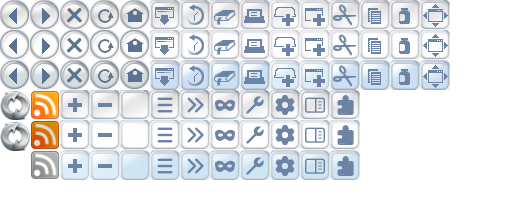
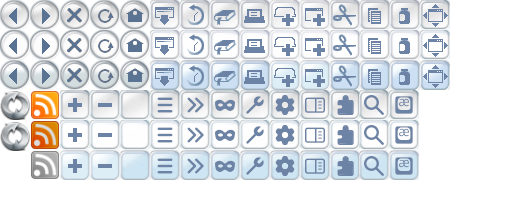
Find and char-encoding.

Changed region(s): [[0.6822, 0.45, 0.8372, 0.9]]

diff --git a/IE6/chrome/icons.css b/IE6/chrome/icons.css
@@ -94,26 +94,24 @@ toolbar:not(#TabsToolbar) .toolbarbutton-1[type="menu-button"] toolbarbutton :-m
 
 /*
 Removed pending icon creation:
-#find-button
 #open-file-button
 #save-page-button
-#characterencoding-button
 #PanelUI-menu-button
 */
 
 :-moz-any(#back-button,#forward-button,#home-button,#stop-button,#reload-button,#bookmarks-menu-button,#history-panelmenu,
 	#sync-button,#feed-button,#e10s-button,#PanelUI-menu-button, #privatebrowsing-button, #preferences-button,
-	#new-window-button,#new-tab-button,#print-button,#fullscreen-button, #add-ons-button,
-	#cut-button,#copy-button,#paste-button,#zoom-out-button,#zoom-in-button,
+	#new-window-button,#new-tab-button,#print-button,#fullscreen-button, #add-ons-button, #find-button,
+	#cut-button,#copy-button,#paste-button,#zoom-out-button,#zoom-in-button,#characterencoding-button,
 	/*#tabview-button,#email-link-button,#web-apps-button,#webide-button,*/#sidebar-button,#developer-button,#containers-panelmenu,
 	#library-button,#bookmarks-toolbar-placeholder,#nav-bar-overflow-button/*,#alltabs-button*/ ),
-#downloads-button:not([indicator="true"]),#panic-button:not([open]),
+#downloads-button:not([indicator="true"]),/*#panic-button:not([open]),*/
 #downloads-button .toolbarbutton-icon {
 	list-style-image: url("image/mm-toolbar.png") !important;
 }
 
 :-moz-any(#forward-button,#home-button,#stop-button,#reload-button,#bookmarks-menu-button,#history-panelmenu,
-				#privatebrowsing-button,/*#find-button,*/#print-button,#fullscreen-button,#developer-button,
+	#characterencoding-button,#privatebrowsing-button,#find-button,#print-button,#fullscreen-button,#developer-button,
 	#preferences-button,#cut-button,#copy-button,#paste-button,#zoom-out-button,#zoom-in-button,#add-ons-button,
 	/*#tabview-button,#email-link-button,#web-apps-button,#webide-button,*/#sidebar-button,#developer-button,#containers-panelmenu,
 	#library-button,#bookmarks-toolbar-placeholder,#nav-bar-overflow-button/*,#alltabs-button*/ ) .toolbarbutton-icon {

diff --git a/IE6/chrome/icon_size.css b/IE6/chrome/icon_size.css
@@ -234,6 +234,30 @@
 	-moz-image-region: rect(151px, 360px, 181px, 330px) !important;
 }
 
+#find-button {
+	-moz-image-region: rect(90px, 390px, 120px, 360px) !important;
+}
+
+#find-button:hover {
+	-moz-image-region: rect(120px, 390px, 150px, 360px) !important;
+}
+
+#find-button:active {
+	-moz-image-region: rect(151px, 390px, 181px, 360px) !important;
+}
+
+#characterencoding-button {
+	-moz-image-region: rect(90px, 420px, 120px, 390px) !important;
+}
+
+#characterencoding-button:hover {
+	-moz-image-region: rect(120px, 420px, 150px, 390px) !important;
+}
+
+#characterencoding-button:active {
+	-moz-image-region: rect(151px, 420px, 181px, 390px) !important;
+}
+
 /*#PanelUI-menu-button {
 	-moz-image-region: rect(1px, 485px, 17px, 469px) !important;
 }*/
